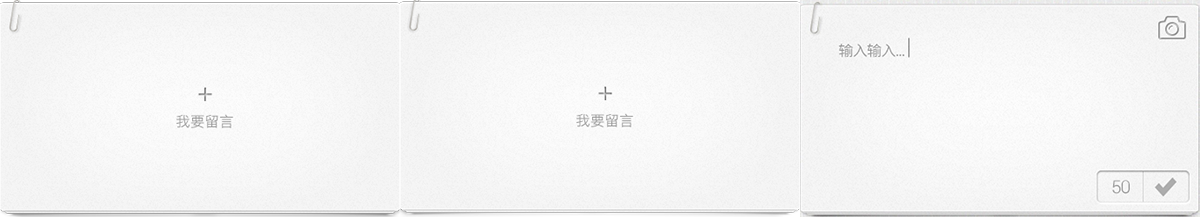
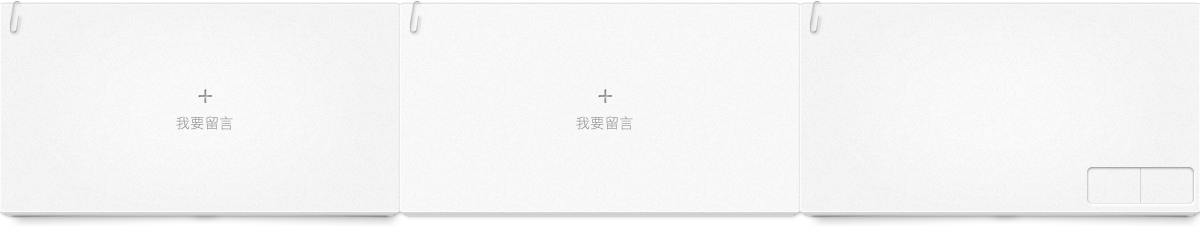
修改了导航栏的css 妈妈再也不用担心冲突了~

diff --git a/WebRoot/TacMessageBoard/MessageBoard.css b/WebRoot/TacMessageBoard/MessageBoard.css
@@ -16,6 +16,13 @@ img#headerimg {
 	width: 980px;
 }
 
+#wholecontent {
+	top:0; 
+	width:1200px; 
+	margin-right: auto; 
+	margin-left: auto;
+}
+
 #allcontent {
 	width: 980px;
 	margin-left: auto;
@@ -27,19 +34,31 @@ img#headerimg {
 }
 
 div.block {
-	margin-top: 20px;
-	margin-bottom: 20px;
+	margin-top: 30px;
+	margin-bottom: 30px;
 	width: 400px;
+	display: block;
 }
 
 div.content {
+	margin-top: 5px;
 	padding-bottom: 20px;
 	background-color: #fcfaed;
-	box-shadow: 1px 2px 5px #888;
+	box-shadow: 2px 2px 5px #888;
+	border-radius: 5px;
+}
+
+div.content:hover {
+	box-shadow: 1px 1px 5px #888;
 }
 
 .headphoto {
-	height: 50px;
+	border-radius: 19px;
+   -moz-border-radius: 19px;
+   -webkit-border-radius: 19px;
+   overflow:hidden;
+   width:38px;
+   height:38px;
 	float: left;
 }
 
@@ -59,8 +78,8 @@ div.content {
 	text-align: center;
 	display: block;
 	position: absolute;
-	margin-top: 176px;
-	margin-left: 300px;
+	margin-top: 174px;
+	margin-left: 295px;
 	font-size: 21px;
 	color: #aaa;
 }
@@ -78,6 +97,7 @@ div.content {
 }
 
 p.notecontent {
+	font-size: 15px;
 	margin: 15px;
 }
 
@@ -88,6 +108,8 @@ p.notecontent {
 }
 
 .notetitle {
+	padding-top: 10px;
+	padding-left: 10px;
 	height: 50px;
 }
 
@@ -99,8 +121,7 @@ p.notecontent {
 }
 
 p.ownername {
-	padding-left: 10px;
-	padding-top: 18px;
+	padding-top: 10px;
 }
 
 #right {
@@ -115,10 +136,10 @@ p.ownername {
 }
 
 #publishBlock #publishContent {
-	margin-top: 35px;
-	margin-left: 35px;
-	height: 120px;
-	width: 300px;
+	margin-top: 32px;
+	margin-left: 22px;
+	height: 112px;
+	width: 346px;
 	display: block;
 	position: absolute;
 	resize: none;
@@ -128,13 +149,30 @@ p.ownername {
 	color: #555;
 }
 
+#publishBlock #publishContent:focus {
+	outline:#d6d6d6 solid 1px;
+}
+
 #publishBlock #submitButton {
+	width: 25px;
+	height: 22px;
+	background-image: url(../image/submitbutton.png);
+	background-position: 0px 0px;
 	position: absolute;
 	display: block;
-	margin-top: 180px;
-	margin-left: 350px;
-	border: 1px solid black;
+	margin-top: 176px;
+	margin-left: 355px;
 }
+
+#publishBlock #submitButton:hover {
+	background-position: -25px 0px;
+}
+
+#publishBlock #submitButton:active {
+	background-position: -50px 0px;
+}
+
+
 
 footer {
 	clear: right;

diff --git a/WebRoot/Navigation/Navigation.css b/WebRoot/Navigation/Navigation.css
@@ -10,43 +10,43 @@
 	margin: auto;
 }
 
-#topLogo {
+#top #topLogo {
 	width: 340px;
 	text-align: left;
 	float: left;
 	margin-left: 30px;
 }
 
-#topBG {
+#top #topBG {
 	background-image: url("Navigation/NavigationBg.png");
 	background-repeat: no-repeat;
 	margin: auto;
 	height: 65px;
 }
 
-#tacnav {
+#top #tacnav {
 	float: right;
 	align: center;
 }
 
-a.tacnav {
+#top a.tacnav {
 	display: block;
 	color: white;
 	text-decoration: none;
 	background-position: 50% 50%;
 }
 
-a.tacnav>div {
+#top a.tacnav>div {
 	height: 32px;
 	//width: 132px;
 	align: center;
 }
 
-a.tacnav>div>p {
+#top a.tacnav>div>p {
 	padding: 5;
 }
 
-a.tacnav:hover {
+#top a.tacnav:hover {
 	float: center;
 	display: block;
 	background: url(Navigation/LinkSelect.png);
@@ -54,11 +54,11 @@ a.tacnav:hover {
 	background-position: 50% 50%;
 }
 
-td {
+#top td {
 	text-align: center;
 }
 
-.headDiv
+#top .headDiv
 {
  	border-radius: 19px;
    -moz-border-radius: 19px;

diff --git a/WebRoot/TacMessageBoard/MessageBoard.js b/WebRoot/TacMessageBoard/MessageBoard.js
@@ -22,11 +22,20 @@ $(document).ready(function() {
 		}
 	}
 	
+	$('#testbutton').click(function() {
+		$('.block').hide();
+		$('.block').fadeIn(1000);
+	});
+	
 	subfield();
 	
-	
+	var loadflag = false;
 	function loadmore() {
 
+		if (loadflag) {
+			return;
+		}
+		loadflag = true;
 		var xmlhttp;
 
 		if (window.XMLHttpRequest) {
@@ -41,6 +50,7 @@ $(document).ready(function() {
 			xmlhttp.send("id=" + id);
 			
 			xmlhttp.onreadystatechange = function() {
+				loadflag = false;
 				if (xmlhttp.readyState==4 && xmlhttp.status==200) {
 					document.getElementById("collection").innerHTML=xmlhttp.responseText;
 					subfield();
